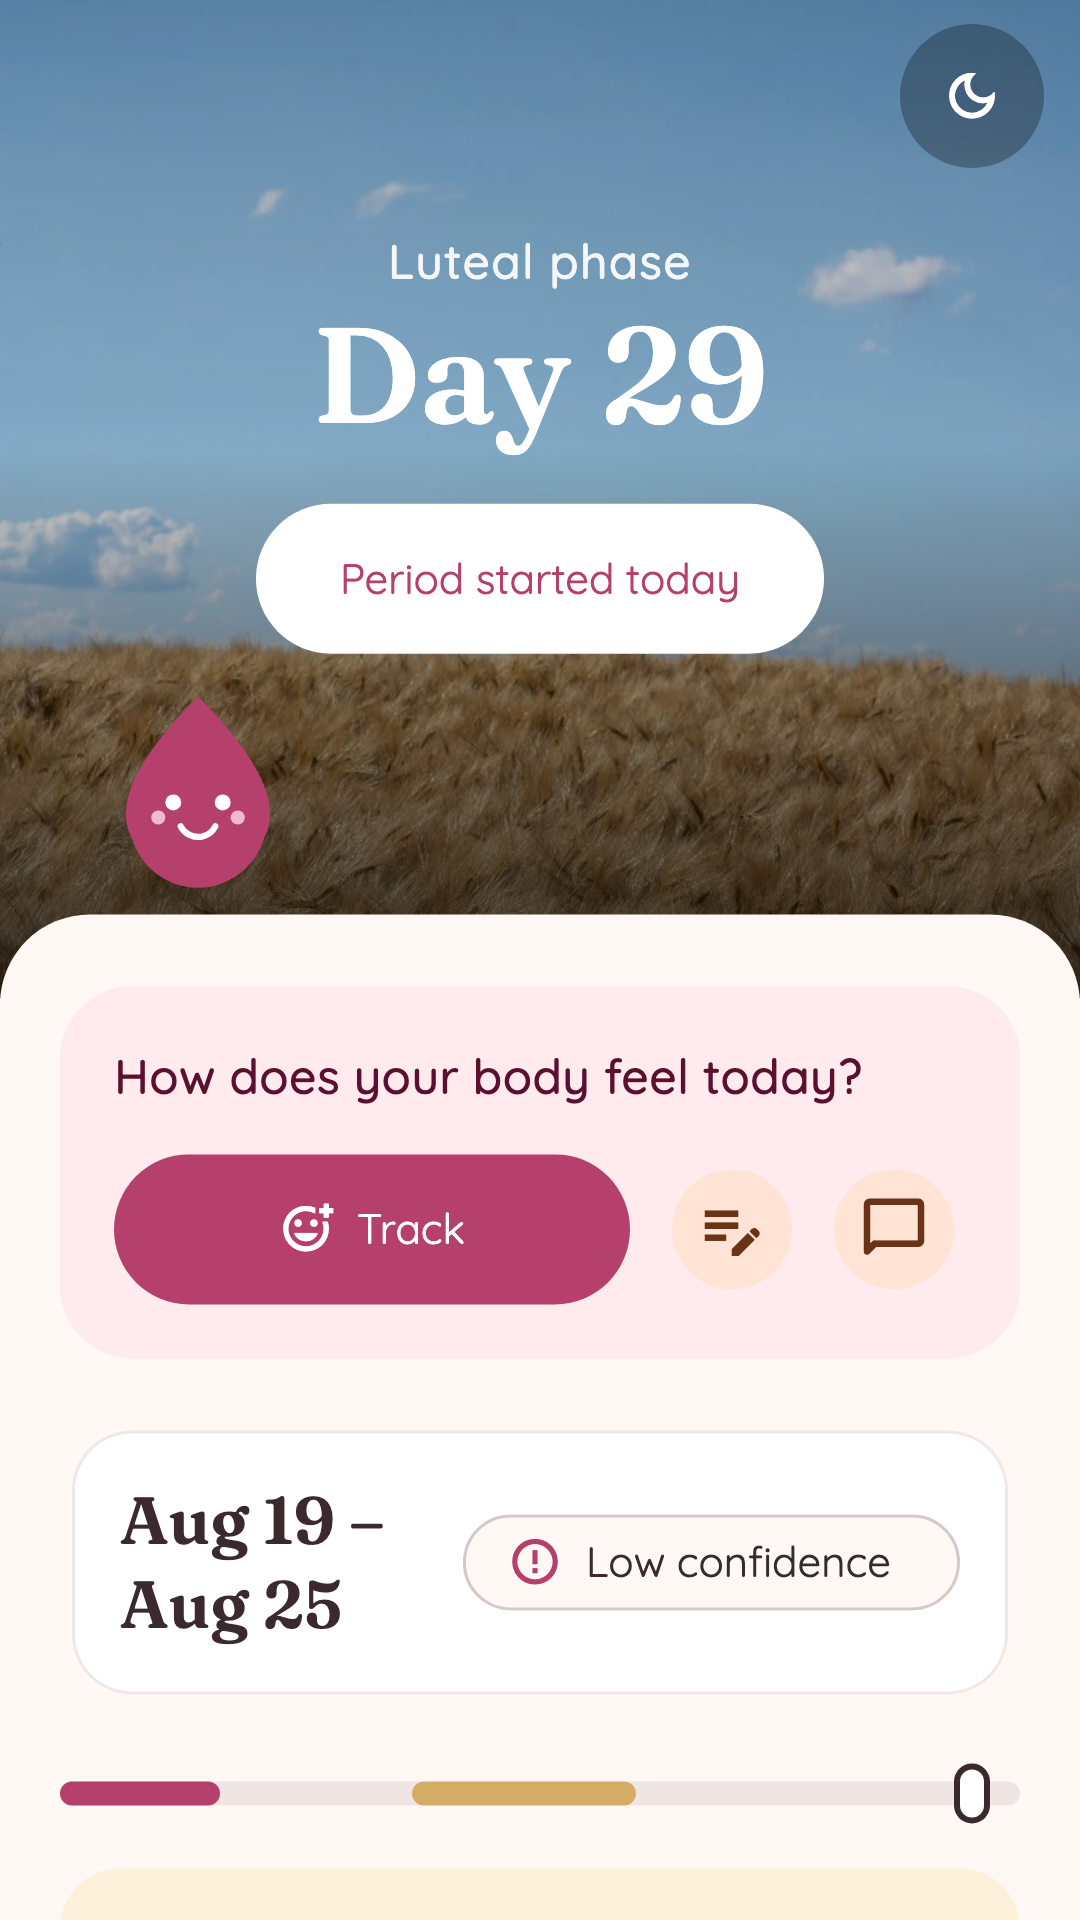
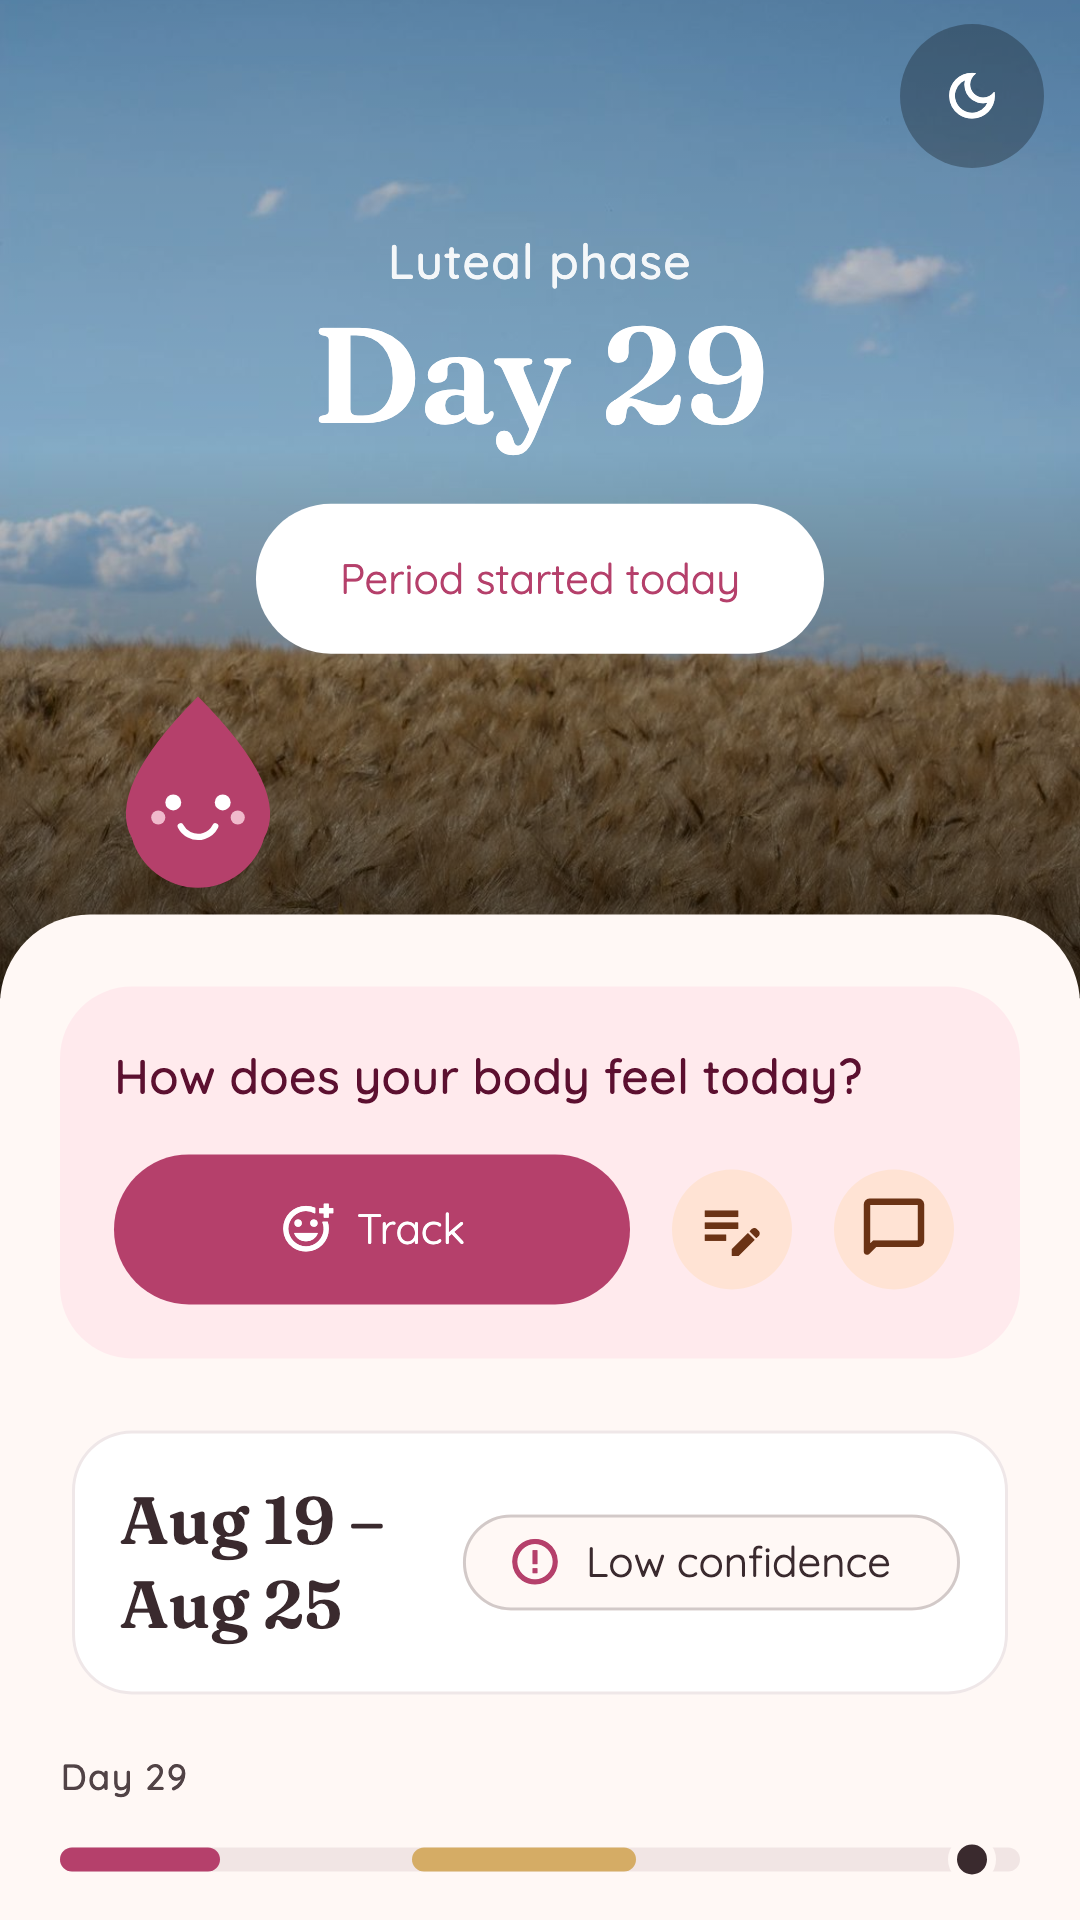
The "0" on Home was the today marker, not a number
Reported as a stray zero sitting at the end of an unlabelled bar, and that
is exactly what it looked like: the marker was a 12x20 hollow rounded
rectangle, which at that size is not a position marker, it is the digit
zero. It is now a filled dot inside a ring of the page colour, which cannot
be read as a character.

The strip also carried no visible label — only a semantics one — so it
floated under the prediction card as a bare graphic. It says which cycle day
it is marking now, using the label Home already had.

Changed region(s): [[0.0611, 0.9062, 0.9472, 1.0]]

diff --git a/app/lib/screens/home/widgets/phase_timeline_bar.dart b/app/lib/screens/home/widgets/phase_timeline_bar.dart
@@ -46,7 +46,17 @@ class PhaseTimelineBar extends StatelessWidget {
     return Semantics(
       container: true,
       label: AppLocalizations.of(context)!.a11yPhaseBar(day, cycleLength),
-      child: SizedBox(
+      child: Column(
+        crossAxisAlignment: CrossAxisAlignment.start,
+        children: [
+          Text(
+            AppLocalizations.of(context)!.homeCycleDayLabel(day),
+            style: Theme.of(context).textTheme.labelMedium?.copyWith(
+                  color: scheme.onSurfaceVariant,
+                ),
+          ),
+          const SizedBox(height: 6),
+          SizedBox(
       height: 26,
       child: LayoutBuilder(
         builder: (context, constraints) {
@@ -98,17 +108,23 @@ class PhaseTimelineBar extends StatelessWidget {
                     ),
                   ),
                 ),
-              // Today marker
+              // Today marker.
+              //
+              // Was a 12x20 hollow rounded rectangle, which at that size is
+              // not a marker — it is the digit zero. On Home it sat at the
+              // end of the bar and read as a stray "0" with no label, which
+              // is exactly how it was reported. A filled dot inside a ring
+              // of the page colour cannot be mistaken for a character.
               PositionedDirectional(
-                start: (x(day) + dayWidth / 2 - 6).clamp(0, width - 12),
-                top: 3,
+                start: (x(day) + dayWidth / 2 - 8).clamp(0, width - 16),
+                top: 5,
                 child: Container(
-                  width: 12,
-                  height: 20,
+                  width: 16,
+                  height: 16,
                   decoration: BoxDecoration(
-                    color: Theme.of(context).cardTheme.color,
-                    border: Border.all(color: scheme.onSurface, width: 2),
-                    borderRadius: BorderRadius.circular(6),
+                    shape: BoxShape.circle,
+                    color: scheme.onSurface,
+                    border: Border.all(color: scheme.surface, width: 3),
                   ),
                 ),
               ),
@@ -116,6 +132,8 @@ class PhaseTimelineBar extends StatelessWidget {
           );
         },
       ),
+          ),
+        ],
       ),
     );
   }
